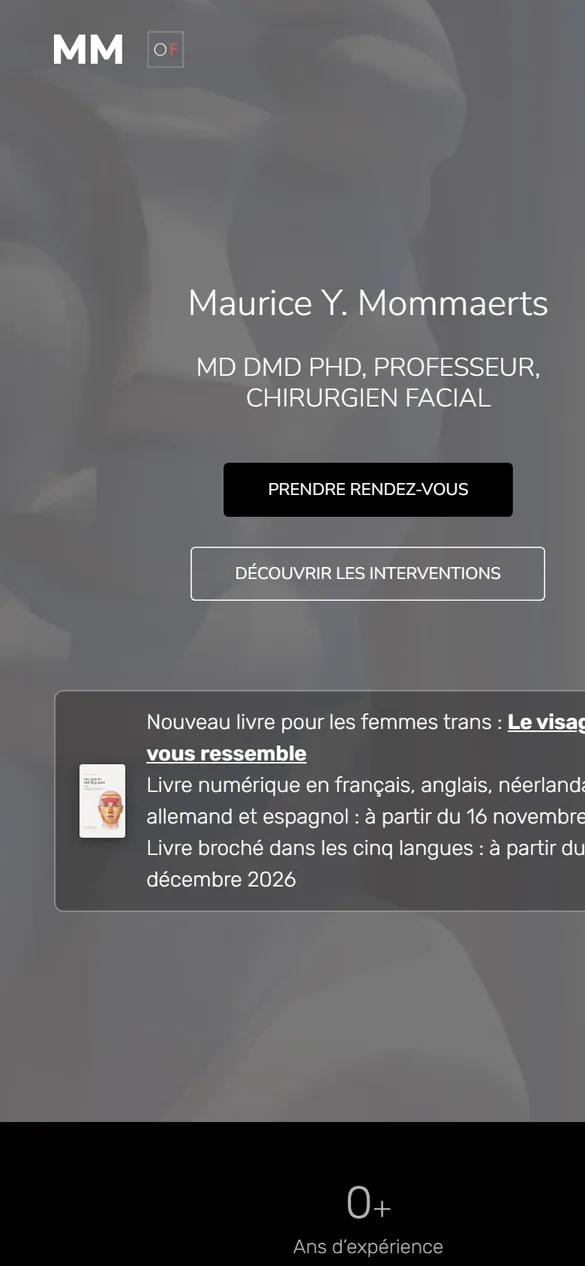
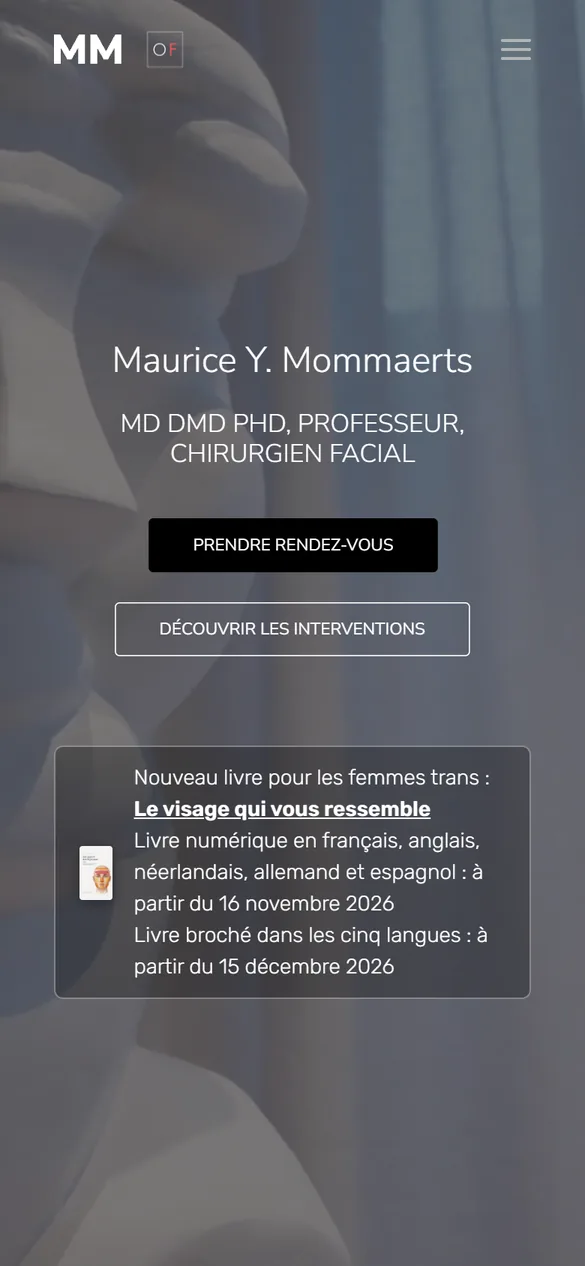
Mobile : vidéo recalée après chargement de la police, texte d'ouverture remonté

diff --git a/presentation.html b/presentation.html
@@ -13,7 +13,7 @@
   <link href="https://fonts.googleapis.com/css2?family=Plus+Jakarta+Sans:wght@400;500;600;700&display=swap" rel="stylesheet">
   <link rel="stylesheet" href="https://unpkg.com/@phosphor-icons/web@2.1.1/src/light/style.css" media="print" onload="this.media='all'">
   <link rel="stylesheet" href="https://unpkg.com/@phosphor-icons/web@2.1.1/src/bold/style.css" media="print" onload="this.media='all'">
-  <link rel="stylesheet" href="assets/v2.css?v=1795787108">
+  <link rel="stylesheet" href="assets/v2.css?v=1795787470">
   <style>
     .pt-hero { padding: clamp(48px, 8vw, 110px) 0 clamp(32px, 5vw, 56px); text-align: center; }
     .pt-hero .eyebrow { display: inline-block; margin-bottom: 20px; padding: 6px 14px; border-radius: 999px; background: #eef3f9; color: var(--bronze); font-size: 13.5px; font-weight: 600; }
@@ -145,6 +145,6 @@
   </section>
 
 </main>
-<script src="assets/v2.js?v=1795787108"></script>
+<script src="assets/v2.js?v=1795787470"></script>
 </body>
 </html>

diff --git a/a-propos.html b/a-propos.html
@@ -19,8 +19,8 @@
   <link href="https://fonts.googleapis.com/css2?family=Plus+Jakarta+Sans:wght@400;500;600;700&display=swap" rel="stylesheet">
     <link rel="stylesheet" href="https://unpkg.com/@phosphor-icons/web@2.1.1/src/light/style.css" media="print" onload="this.media='all'">
   <link rel="stylesheet" href="https://unpkg.com/@phosphor-icons/web@2.1.1/src/bold/style.css" media="print" onload="this.media='all'">
-  <link rel="stylesheet" href="assets/v2.css?v=1795787108">
-  <link rel="stylesheet" href="assets/v2-pages.css?v=1795787108">
+  <link rel="stylesheet" href="assets/v2.css?v=1795787470">
+  <link rel="stylesheet" href="assets/v2-pages.css?v=1795787470">
 </head>
 <body>
 
@@ -181,6 +181,6 @@
   <a class="btn btn--light" href="contact.html">Rendez-vous <i class="ph-light ph-arrow-right" aria-hidden="true"></i></a>
 </div>
 
-<script src="assets/v2.js?v=1795787108"></script>
+<script src="assets/v2.js?v=1795787470"></script>
 </body>
 </html>

diff --git a/contact.html b/contact.html
@@ -19,8 +19,8 @@
   <link href="https://fonts.googleapis.com/css2?family=Plus+Jakarta+Sans:wght@400;500;600;700&display=swap" rel="stylesheet">
     <link rel="stylesheet" href="https://unpkg.com/@phosphor-icons/web@2.1.1/src/light/style.css" media="print" onload="this.media='all'">
   <link rel="stylesheet" href="https://unpkg.com/@phosphor-icons/web@2.1.1/src/bold/style.css" media="print" onload="this.media='all'">
-  <link rel="stylesheet" href="assets/v2.css?v=1795787108">
-  <link rel="stylesheet" href="assets/v2-pages.css?v=1795787108">
+  <link rel="stylesheet" href="assets/v2.css?v=1795787470">
+  <link rel="stylesheet" href="assets/v2-pages.css?v=1795787470">
 </head>
 <body>
 
@@ -126,6 +126,6 @@
   <a class="btn btn--light" href="contact.html">Rendez-vous <i class="ph-light ph-arrow-right" aria-hidden="true"></i></a>
 </div>
 
-<script src="assets/v2.js?v=1795787108"></script>
+<script src="assets/v2.js?v=1795787470"></script>
 </body>
 </html>

diff --git a/interventions.html b/interventions.html
@@ -19,8 +19,8 @@
   <link href="https://fonts.googleapis.com/css2?family=Plus+Jakarta+Sans:wght@400;500;600;700&display=swap" rel="stylesheet">
     <link rel="stylesheet" href="https://unpkg.com/@phosphor-icons/web@2.1.1/src/light/style.css" media="print" onload="this.media='all'">
   <link rel="stylesheet" href="https://unpkg.com/@phosphor-icons/web@2.1.1/src/bold/style.css" media="print" onload="this.media='all'">
-  <link rel="stylesheet" href="assets/v2.css?v=1795787108">
-  <link rel="stylesheet" href="assets/v2-pages.css?v=1795787108">
+  <link rel="stylesheet" href="assets/v2.css?v=1795787470">
+  <link rel="stylesheet" href="assets/v2-pages.css?v=1795787470">
 </head>
 <body>
 
@@ -232,6 +232,6 @@
   <a class="btn btn--light" href="contact.html">Rendez-vous <i class="ph-light ph-arrow-right" aria-hidden="true"></i></a>
 </div>
 
-<script src="assets/v2.js?v=1795787108"></script>
+<script src="assets/v2.js?v=1795787470"></script>
 </body>
 </html>

diff --git a/resultats.html b/resultats.html
@@ -19,8 +19,8 @@
   <link href="https://fonts.googleapis.com/css2?family=Plus+Jakarta+Sans:wght@400;500;600;700&display=swap" rel="stylesheet">
     <link rel="stylesheet" href="https://unpkg.com/@phosphor-icons/web@2.1.1/src/light/style.css" media="print" onload="this.media='all'">
   <link rel="stylesheet" href="https://unpkg.com/@phosphor-icons/web@2.1.1/src/bold/style.css" media="print" onload="this.media='all'">
-  <link rel="stylesheet" href="assets/v2.css?v=1795787108">
-  <link rel="stylesheet" href="assets/v2-pages.css?v=1795787108">
+  <link rel="stylesheet" href="assets/v2.css?v=1795787470">
+  <link rel="stylesheet" href="assets/v2-pages.css?v=1795787470">
 </head>
 <body>
 
@@ -371,6 +371,6 @@
   <a class="btn btn--light" href="contact.html">Rendez-vous <i class="ph-light ph-arrow-right" aria-hidden="true"></i></a>
 </div>
 
-<script src="assets/v2.js?v=1795787108"></script>
+<script src="assets/v2.js?v=1795787470"></script>
 </body>
 </html>

diff --git a/404.html b/404.html
@@ -19,8 +19,8 @@
   <link href="https://fonts.googleapis.com/css2?family=Plus+Jakarta+Sans:wght@400;500;600;700&display=swap" rel="stylesheet">
     <link rel="stylesheet" href="https://unpkg.com/@phosphor-icons/web@2.1.1/src/light/style.css" media="print" onload="this.media='all'">
   <link rel="stylesheet" href="https://unpkg.com/@phosphor-icons/web@2.1.1/src/bold/style.css" media="print" onload="this.media='all'">
-  <link rel="stylesheet" href="assets/v2.css?v=1795787108">
-  <link rel="stylesheet" href="assets/v2-pages.css?v=1795787108">
+  <link rel="stylesheet" href="assets/v2.css?v=1795787470">
+  <link rel="stylesheet" href="assets/v2-pages.css?v=1795787470">
 </head>
 <body>
 
@@ -96,6 +96,6 @@
   <a class="btn btn--light" href="contact.html">Rendez-vous <i class="ph-light ph-arrow-right" aria-hidden="true"></i></a>
 </div>
 
-<script src="assets/v2.js?v=1795787108"></script>
+<script src="assets/v2.js?v=1795787470"></script>
 </body>
 </html>

diff --git a/index.html b/index.html
@@ -21,7 +21,7 @@
   <link href="https://fonts.googleapis.com/css2?family=Plus+Jakarta+Sans:wght@400;500;600;700&display=swap" rel="stylesheet">
     <link rel="stylesheet" href="https://unpkg.com/@phosphor-icons/web@2.1.1/src/light/style.css" media="print" onload="this.media='all'">
   <link rel="stylesheet" href="https://unpkg.com/@phosphor-icons/web@2.1.1/src/bold/style.css" media="print" onload="this.media='all'">
-  <link rel="stylesheet" href="assets/v2.css?v=1795787108">
+  <link rel="stylesheet" href="assets/v2.css?v=1795787470">
   <script type="application/ld+json">
   {
     "@context": "https://schema.org",
@@ -409,6 +409,6 @@
   <a class="btn btn--light" href="#contact">Rendez-vous <i class="ph-light ph-arrow-right" aria-hidden="true"></i></a>
 </div>
 
-<script src="assets/v2.js?v=1795787108"></script>
+<script src="assets/v2.js?v=1795787470"></script>
 </body>
 </html>

diff --git a/assets/v2.js b/assets/v2.js
@@ -78,6 +78,11 @@
     };
     const req = () => { if (!raf) raf = requestAnimationFrame(update); };
     measure(); update();
+    // La police web change la hauteur du texte : on recalcule la place de la vidéo quand la mise en page bouge.
+    const remeasure = () => { measure(); update(); };
+    if (document.fonts) document.fonts.ready.then(remeasure);
+    addEventListener("load", remeasure);
+    if ("ResizeObserver" in window) new ResizeObserver(remeasure).observe(text);
     addEventListener("scroll", req, { passive: true });
     addEventListener("resize", () => { measure(); req(); });
   }

diff --git a/assets/v2.css b/assets/v2.css
@@ -793,3 +793,5 @@ body::after {
 }
 .fmap__stage.is-in .fmap__dot { transition-delay: .5s; }
 @media (max-width: 880px) { .fmap__stage { max-width: 300px; } }
+/* Mobile : les phrases de l'ouverture passent au-dessus de l'étiquette de démo et de la barre d'action */
+@media (max-width: 880px) { .cine__lines { bottom: 150px; } }
